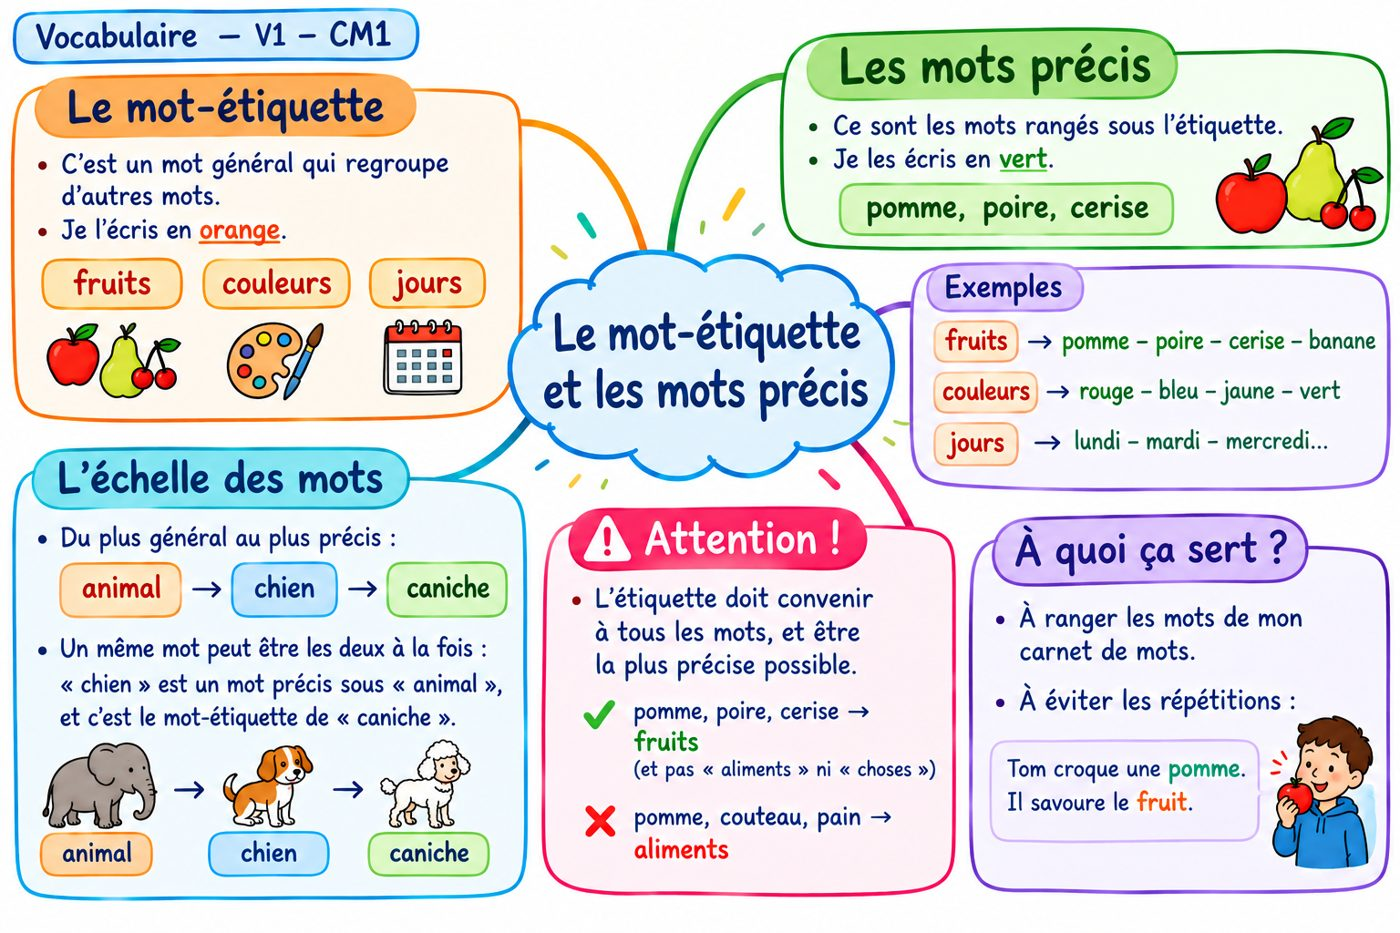
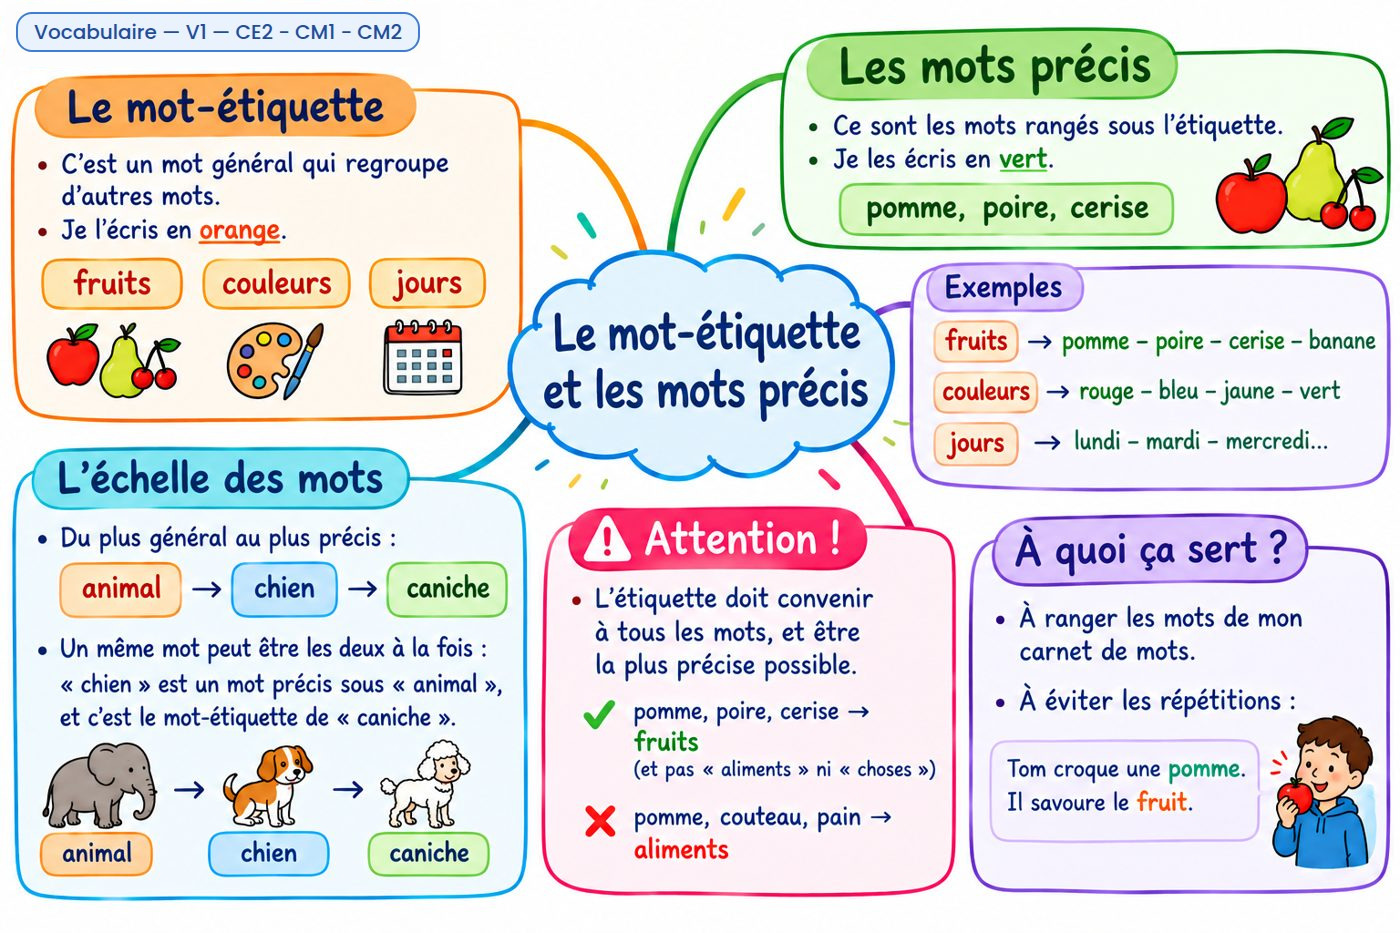
Cartes mentales partagées entre classes : l'étiquette dit les niveaux (CE2 - CM1 - CM2, ou CM1 - CM2 pour H et G6) au lieu de CM1 ; G1 reçoit une étiquette ; H1 : Homophones au lieu de Grammaire

Changed region(s): [[0.0, 0.0, 0.3071, 0.0932]]

diff --git a/outils/mapgen.py b/outils/mapgen.py
@@ -43,8 +43,17 @@ def branch(b):
     return f'<path d="M{sx:.0f} {sy:.0f} Q{mx:.0f} {sy:.0f} {ex:.0f} {ey:.0f}" stroke="{col}"/>'
 
 
+# Cartes partagées entre plusieurs classes : l'étiquette dit les niveaux concernés au lieu de « CM1 » (04/11/2026, demande de l'enseignante :
+# « garde le nom du domaine, la lettre et le numéro de ceinture, et écris CE2 - CM1 - CM2 »). Les cartes qui ont une version par niveau
+# (C6, C7, G2, G3, G6-CE2, C8-CM2…) gardent leur niveau.
+TOUS_NIVEAUX = 'CE2 - CM1 - CM2'
+CHIP_NIVEAUX = {**{c: TOUS_NIVEAUX for c in ('C1', 'C2', 'C3', 'C4', 'C5', 'G4', 'G5', 'G7', 'O1', 'O2', 'O3', 'O4', 'O5', 'O6', 'V3', 'V4', 'V5', 'V6')},
+                **{c: 'CM1 - CM2' for c in ('H2', 'H3', 'H4', 'H5', 'H6', 'H7', 'G6')}}
+
+
 def build(lid, titre, chip, legend, boxes, sub='', title_size=40, legend_pos='right:18px;top:12px'):
     import re
+    if lid in CHIP_NIVEAUX: chip = re.sub(r'—\s*CM1\s*$', '— ' + CHIP_NIVEAUX[lid], chip)
     nb=lambda t: re.sub(r'« ', '«&nbsp;', re.sub(r' ([?!:;»])', r'&nbsp;\1', t))
     parts = []
     for b in boxes:
